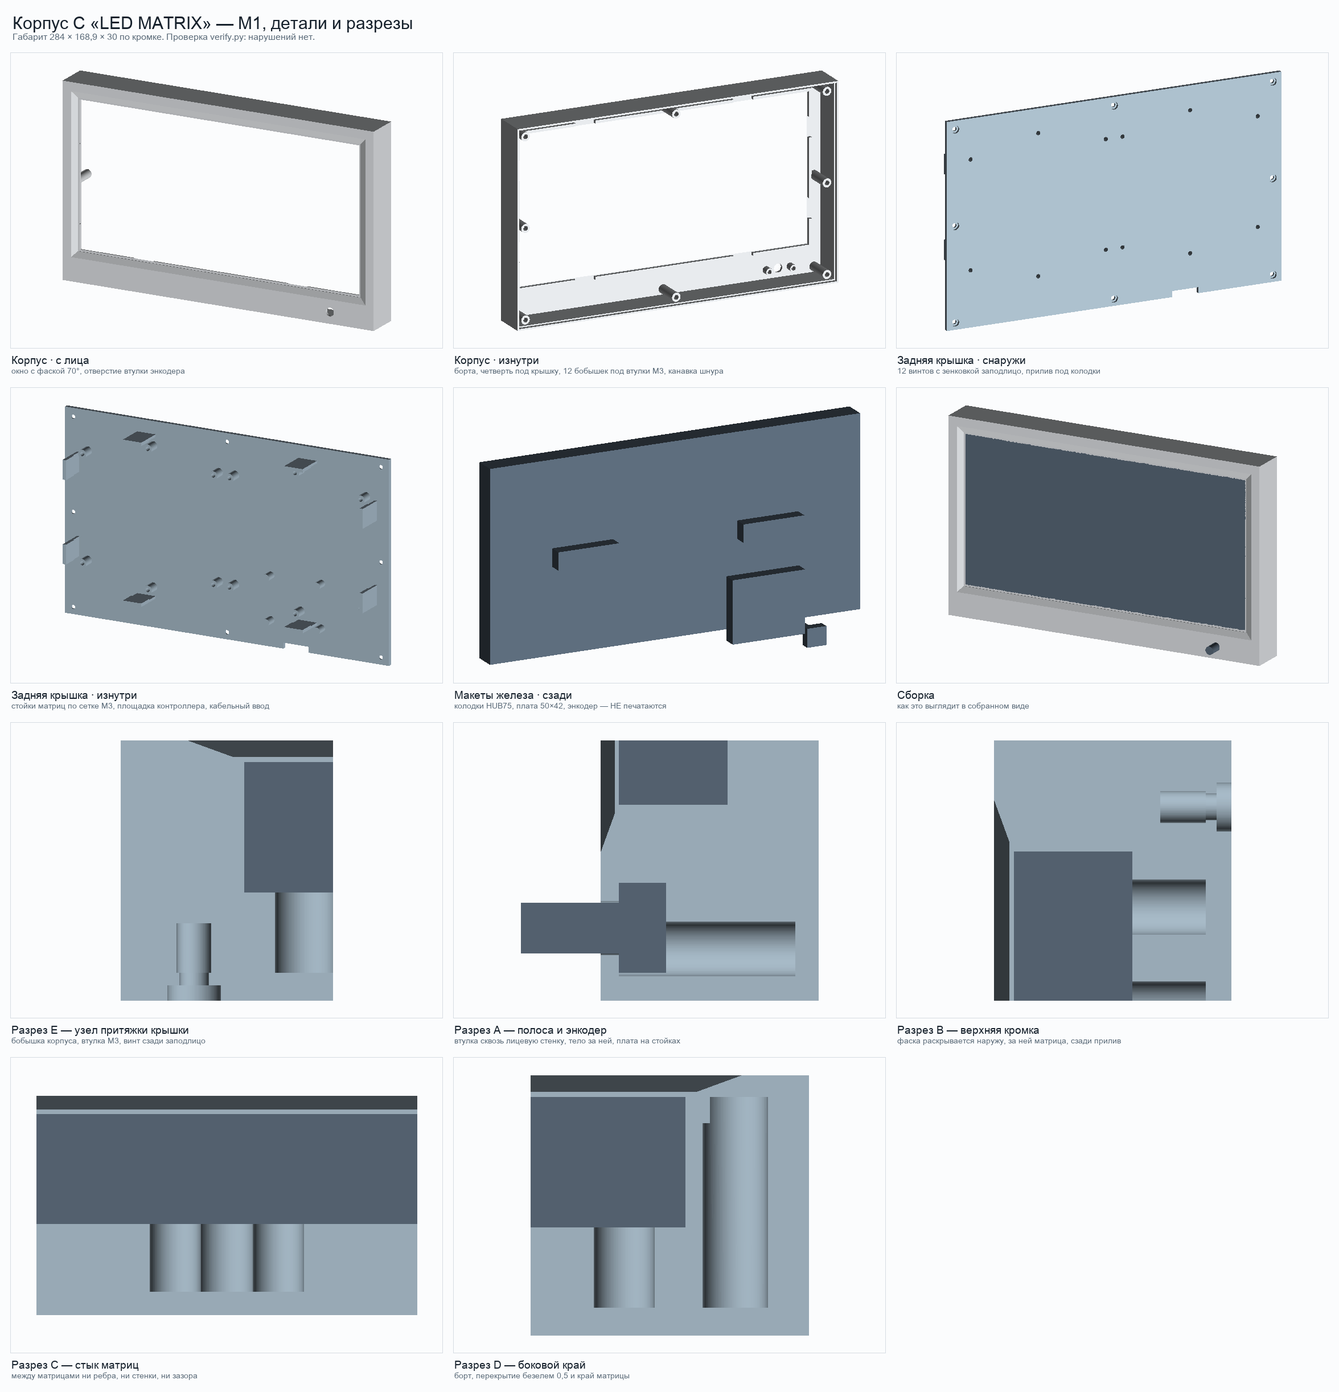
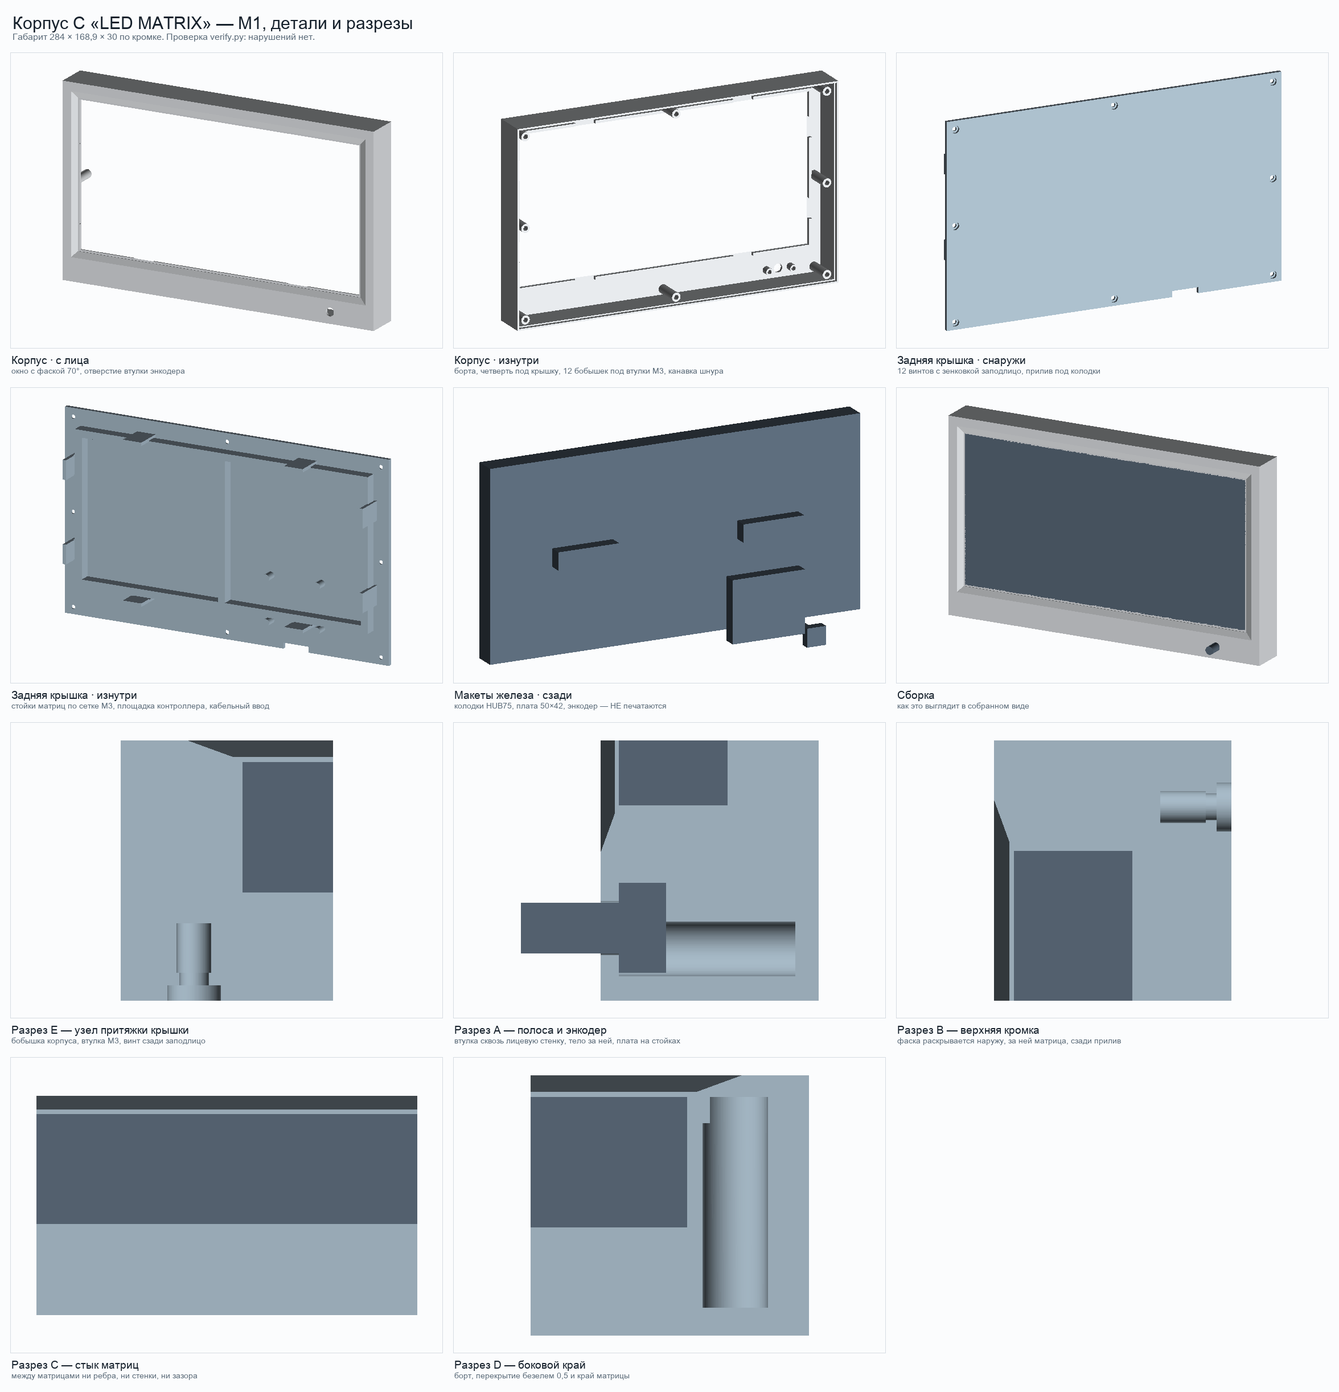
enclosure: the drawing is of an accessory — stop leaning on it
The whole factory sheet is the mounting frame, which ships as an accessory and
which this design does not use. Two things I had built on it are therefore
invalid: the six M3 points belong to the frame, not the panel, and the 127.8
outline is the frame's as well.

Panels are now held by pressure instead — the seat locates them, the tongues
push them together in plane, and ribs on the cover press them against the face
plate, with one rib along the seam. USE_FRAME_M3 stays as a flag and verify.py
fails outright if it is switched on while the frame is unconfirmed.

What the frame does tell us is kept: it closes over the panel and everything
soldered to it, so the panel fits within 15 mm. That is a ceiling worth having.

Also adds min_depth(), because "the frame is 15, so 20 is plenty" is half
right. Face plate, panel and cover come to 19.5; the controller behind the
panel puts the minimum at 28.5. verify.py prints both, so the trade-off is
visible rather than argued.

diff --git a/enclosure/cad/case_c_lib.py b/enclosure/cad/case_c_lib.py
@@ -43,21 +43,39 @@ class P:
 
 # --------------------------------------------------------------- матрица
 # Габарит литой рамки: два проставленных размера 127.800 на чертеже.
-PANEL_FRAME = P(127.8, DWG, "литая рамка, проставлено дважды")
+PANEL_FRAME = P(127.8, DWG, "литая МОНТАЖНАЯ рамка; мы её не ставим")
 # Кромка платы чертежом не размеряется. Паспорт даёт 128.
 PANEL_BOARD = P(128.0, MEAS, "кромка платы; чертёж её не размеряет")
 # Толщина: проставленного размера полной толщины на листе НЕТ.
 # Габарит геометрии бокового вида 14.9996, дистрибьютор 14.5.
-PANEL_T = P(15.0, MEAS, "справочно 14.5-15; полной толщины чертёж не размеряет")
+# Толщина. 15.0 — габарит монтажной рамки, и это ценно не само по себе:
+# рамка накрывает панель со всей её электроникой, значит панель СО ВСЕМ,
+# что на ней распаяно, в 15 мм укладывается. Голая панель тоньше, но
+# закладываться на 15 безопасно и достаточно: больше этого она не станет.
+PANEL_T = P(15.0, MEAS, "панель со всем навесным: укладывается в габарит рамки 15")
 # Ступень от лица до основной задней плоскости — проставлена и привязана.
 PANEL_STEP = P(12.0, DWG, "от лицевой кромки бокового вида до задней плоскости")
 PANEL_STEP2 = P(4.4775, DWG, "вторая ступень от лицевой кромки")
 
-# Шесть точек M3 (слой SCREW), координаты от центра матрицы.
+# Шесть точек M3 (слой SCREW), координаты от центра детали.
+#
+# ВАЖНО: они принадлежат ЛИТОЙ МОНТАЖНОЙ РАМКЕ, а не панели. Весь чертёж —
+# про эту рамку: `JXS-P2-128*128 bottom case`. Рамка идёт как принадлежность,
+# и ставить панель без неё можно. Значит на голой панели этих резьбовых точек
+# может не быть вовсе, и конструкция не имеет права на них опираться.
+#
+# Отсюда USE_FRAME_M3 = False: панели держатся ПРИЖИМОМ (гнездо в корпусе,
+# языки в плоскости, рёбра крышки по тыльной стороне), а не винтами.
+# Поставить True можно, только если обмер подтвердит и рамку, и точки.
+USE_FRAME_M3 = False
 M3_POINTS = [(0.0, 56.85), (-56.85, 44.0), (56.85, 44.0),
              (-56.85, -44.0), (56.85, -44.0), (0.0, -56.85)]
 M3_SRC = DWG
 M3_PILOT = P(2.5, DWG, "⌀ пилотного отверстия под M3")
+
+# Прижим панели к лицевой плите — рёбрами крышки по её тыльной стороне.
+PAD_W = P(6.0, SPEC, "ширина прижимного ребра")
+PAD_INSET = P(4.0, SPEC, "отступ ребра внутрь от кромки панели")
 
 # Периметр: 28 отверстий ⌀4.0, отступы от контура 127.8.
 PERIM_D = P(4.0, DWG)
@@ -76,8 +94,11 @@ VH4_H = P(7.0, MEAS, "высота колодки питания — не раз
 #
 # Значит за габарит выступает только ответная часть — розетка шлейфа,
 # надетая на вилку, — и ровно эту величину надо обмерить.
-CONN_PROUD = P(5.0, MEAS, "на сколько надетый шлейф HUB75 выступает ЗА габарит модуля")
-VH4_PROUD = P(3.0, MEAS, "то же для разъёма питания")
+# Выступ надетого шлейфа за 15 мм. По логике рамки — ноль: в её габарит
+# входит всё. Оставлено параметром, потому что рамка накрывает распаянные
+# колодки, а не надетые на них розетки, и это разные вещи. Обмер закроет.
+CONN_PROUD = P(0.0, MEAS, "выступ надетого шлейфа HUB75 за 15 мм; по рамке — ноль")
+VH4_PROUD = P(0.0, MEAS, "то же для разъёма питания")
 
 # ---------------------------------------------------------- активное поле
 PANELS_N = 2
@@ -209,6 +230,20 @@ def overlap_after_centering():
 RELIEF_BAND_Y = P(0.0, SPEC, "ось полосы прилива по Y = осевая матриц")
 RELIEF_BAND_H = P(56.0, SPEC, "высота полосы; сузится после обмера")
 RELIEF_MARGIN = P(1.5, SPEC, "запас над разъёмом")
+
+
+def min_depth(with_controller=True):
+    """Наименьшая глубина корпуса для данной компоновки.
+
+    Панель глубину НЕ определяет: монтажная рамка 15 мм доказывает, что вся
+    электроника панели в эти 15 укладывается, и на неё уходит 2.5 + 15 + 2.0
+    = 19.5. Определяет глубину плата контроллера, стоящая за панелью.
+    """
+    base = float(WALL_FRONT) + float(PANEL_T) + float(WALL_BACK)
+    if not with_controller:
+        return base + max(float(CONN_PROUD), float(VH4_PROUD)) + 0.5
+    return base + max(float(CTRL_T),
+                      max(float(CONN_PROUD), float(VH4_PROUD)) + 0.5)
 
 
 def relief_depth():

diff --git a/enclosure/cad/back_cover.step.py b/enclosure/cad/back_cover.step.py
@@ -26,7 +26,8 @@ from build123d import Box, Cylinder, Pos, export_stl
 
 from case_c_lib import (CASE_H, CASE_W, CLAMP_PRELOAD, CLAMP_T, CLAMP_TOOTH,
                         CLAMP_W, COVER_GAP, COVER_HEAD_D, COVER_HEAD_H,
-                        PANEL_BOARD, clamp_positions, seat_bounds,
+                        PANEL_BOARD, PAD_INSET, PAD_W, USE_FRAME_M3,
+                        clamp_positions, seat_bounds,
                         COVER_LIP, COVER_SCREW_D, CTRL_H, CTRL_T, CTRL_W,
                         DEPTH, FIELD_CY, INSERT_M25_D, INSERT_M25_L, M3_POINTS,
                         PANEL_FRAME, PANEL_T, RELIEF_BAND_H, RELIEF_BAND_Y,
@@ -112,14 +113,34 @@ def build():
         part += relief_out
         part -= relief_in
 
-    # стойки матриц: от крышки вперёд, до задней плоскости матрицы
+    # Прижим панелей. Винты по сетке M3 не используются: сетка принадлежит
+    # монтажной рамке, которую мы не ставим, и на голой панели её может не
+    # быть. Панели прижимаются рёбрами крышки к лицевой плите — по периметру
+    # каждой панели и вдоль стыка, где прижим особенно важен.
     L = Z_LIP - Z_PANEL_BACK
-    for cx in PANEL_CX:
-        for mx, my in M3_POINTS:
-            part += Pos(cx + mx, my, Z_PANEL_BACK + L / 2) * Cylinder(BOSS_D / 2, L)
-    for cx in PANEL_CX:
-        for mx, my in M3_POINTS:
-            part -= Pos(cx + mx, my, D / 2) * Cylinder(BOSS_HOLE / 2, 3 * D)
+    pw, ins = float(PAD_W), float(PAD_INSET)
+    x0, x1, y0, y1 = seat_bounds()
+    ring_x0, ring_x1 = x0 + ins, x1 - ins
+    ring_y0, ring_y1 = y0 + ins, y1 - ins
+    frame = (Pos((ring_x0 + ring_x1) / 2, (ring_y0 + ring_y1) / 2,
+                 Z_PANEL_BACK + L / 2)
+             * Box(ring_x1 - ring_x0 + pw, ring_y1 - ring_y0 + pw, L)
+             - Pos((ring_x0 + ring_x1) / 2, (ring_y0 + ring_y1) / 2,
+                   Z_PANEL_BACK + L / 2)
+             * Box(ring_x1 - ring_x0 - pw, ring_y1 - ring_y0 - pw, L))
+    part += frame
+    # ребро по стыку: держит обе панели вровень именно там, где это видно
+    part += Pos(0.0, (ring_y0 + ring_y1) / 2, Z_PANEL_BACK + L / 2) * Box(
+        pw, ring_y1 - ring_y0, L)
+
+    if USE_FRAME_M3:
+        for cx in PANEL_CX:
+            for mx, my in M3_POINTS:
+                part += Pos(cx + mx, my, Z_PANEL_BACK + L / 2) * Cylinder(
+                    BOSS_D / 2, L)
+        for cx in PANEL_CX:
+            for mx, my in M3_POINTS:
+                part -= Pos(cx + mx, my, D / 2) * Cylinder(BOSS_HOLE / 2, 3 * D)
 
     # контроллер
     lc = Z_LIP - (Z_PANEL_BACK + 1.0)
@@ -153,7 +174,8 @@ if __name__ == "__main__":
     bb = part.bounding_box()
     print(f"габарит: {bb.size.X:.2f} x {bb.size.Y:.2f} x {bb.size.Z:.2f}")
     print(f"объём: {part.volume / 1000:.1f} см3, тел: {len(part.solids())}")
-    print(f"стоек матриц: {2 * len(M3_POINTS)}, точек притяжки: {len(cover_points())}")
+    print(f"прижим панелей: {'винты M3' if USE_FRAME_M3 else 'рёбра'}, "
+          f"точек притяжки крышки: {len(cover_points())}")
     out = os.path.join(os.path.dirname(os.path.abspath(__file__)), "out")
     os.makedirs(out, exist_ok=True)
     export_stl(part, os.path.join(out, "back_cover.stl"))

diff --git a/enclosure/cad/verify.py b/enclosure/cad/verify.py
@@ -109,6 +109,18 @@ def main():
         if not ok:
             fail(f"{nm} ({need:.1f}) не входит: доступно {have:.2f}")
 
+    print("\n=== 3.1 что определяет глубину ===")
+    need_with = L.min_depth(True)
+    need_without = L.min_depth(False)
+    print(f"  на панель уходит: {float(L.WALL_FRONT):.1f} + {float(L.PANEL_T):.1f}"
+          f" + {float(L.WALL_BACK):.1f} = "
+          f"{float(L.WALL_FRONT) + float(L.PANEL_T) + float(L.WALL_BACK):.1f}")
+    print(f"  минимум с контроллером внутри: {need_with:.1f}")
+    print(f"  минимум без контроллера:       {need_without:.1f}")
+    print(f"  назначено: {float(L.DEPTH):.1f}")
+    if float(L.DEPTH) < need_with:
+        fail(f"глубина {float(L.DEPTH):.1f} меньше необходимой {need_with:.1f}")
+
     print("\n=== 4. соединение корпуса и крышки ===")
     body, cover = parts["case_body"], parts["back_cover"]
     pts = L.cover_points()
@@ -159,7 +171,18 @@ def main():
         if grip <= 0:
             fail(f"язык не достаёт до торца при {cand:.1f}")
 
-    print("\n=== 6. свободная полоса и ручка ===")
+    print("\n=== 6. на что опирается конструкция ===")
+    if L.USE_FRAME_M3:
+        print("  панели держатся винтами по сетке M3 монтажной рамки")
+        fail("конструкция опирается на сетку M3, которая принадлежит рамке; "
+             "рамка — принадлежность, на голой панели точек может не быть")
+    else:
+        print("  панели держатся прижимом: гнездо, языки в плоскости, "
+              "рёбра крышки по тыльной стороне")
+        print("  сетка M3 монтажной рамки не используется — и правильно: "
+              "рамку мы не ставим")
+
+    print("\n=== 7. свободная полоса и ручка ===")
     bevel_edge = -(float(L.FIELD_H) / 2 + float(L.BEVEL_RUN))   # нижний край фаски
     bottom = -(float(L.FIELD_H) / 2 + float(L.STRIP_H))          # кромка корпуса
     free = bevel_edge - bottom
@@ -174,7 +197,7 @@ def main():
     if top_gap < 0 or bot_gap < 0:
         fail("ручка энкодера не помещается в свободную полосу")
 
-    print("\n=== 7. печать ===")
+    print("\n=== 8. печать ===")
     for n, p in parts.items():
         bb = p.bounding_box()
         ok, how = L.fits_plate(bb.size.X, bb.size.Y)
@@ -184,7 +207,7 @@ def main():
             # это ожидаемый результат, а не нарушение.
             print(f"     ожидаемо на M1: членение выполняется на M2")
 
-    print("\n=== 8. тела и сетка ===")
+    print("\n=== 9. тела и сетка ===")
     out = os.path.join(HERE, "out")
     os.makedirs(out, exist_ok=True)
     import trimesh
@@ -200,7 +223,7 @@ def main():
         if not m.is_watertight or broken:
             fail(f"{n} даёт негерметичную сетку")
 
-    print("\n=== 9. на обмере ===")
+    print("\n=== 10. на обмере ===")
     for nm, v, note in L.measured_params():
         print(f"  {nm:14s} = {v:8.3f}   {note}")
 

diff --git a/enclosure/cad/mockups.step.py b/enclosure/cad/mockups.step.py
@@ -15,19 +15,23 @@ sys.path.insert(0, os.path.dirname(os.path.abspath(__file__)))
 from build123d import Box, Compound, Cylinder, Pos, export_stl
 
 from case_c_lib import (CONN_H, CTRL_H, CTRL_T, CTRL_W, ENC_BODY_H, ENC_BODY_T,
+                        PANEL_BOARD,
                         ENC_BODY_W, ENC_BUSH_D, ENC_X, ENC_Y, PANEL_FRAME,
                         PANEL_T, WALL_FRONT)
 
 TF, PT = float(WALL_FRONT), float(PANEL_T)
 PF = float(PANEL_FRAME)
+PB = float(PANEL_BOARD)
 CTRL_CX, CTRL_CY = 60.0, -50.0          # согласовано с back_shell
 Z_PANEL_BACK = TF + PT
 
 
 def build():
     items = []
+    # Панель БЕЗ монтажной рамки: наружный размер берём по кромке платы,
+    # рамка — принадлежность, и мы её не ставим.
     for sx in (-1, 1):
-        m = Pos(sx * PF / 2, 0, TF + PT / 2) * Box(PF, PF, PT)
+        m = Pos(sx * PB / 2, 0, TF + PT / 2) * Box(PB, PB, PT)
         m.label = f"panel_{'L' if sx < 0 else 'R'}"
         items.append(m)
 
@@ -35,7 +39,7 @@ def build():
     # поэтому положение здесь ВЫДУМАНО: по центру каждой матрицы, на осевой.
     # Оно влияет только на картинку; глубину корпуса задаёт CONN_STACK, а
     # ширину прилива — то, что положение неизвестно (полоса во всю ширину).
-    for x in (-PF / 2, PF / 2):
+    for x in (-PB / 2, PB / 2):
         c = Pos(x, 0, Z_PANEL_BACK + float(CONN_H) / 2) * Box(42.0, 12.0, float(CONN_H))
         c.label = "hub75"
         items.append(c)

diff --git a/enclosure/cad/README.md b/enclosure/cad/README.md
@@ -58,6 +58,33 @@ of plate, and deeper down the window is already narrow, leaving about 12 mm betw
 edge and the wall. The bosses grow from the back of the plate into exactly that band —
 2.3 mm clear of the window and 2.3 mm clear of the wall, which `verify.py` checks.
 
+## The drawing is of an accessory, not of the panel
+
+Worth saying plainly, because it invalidates two things I had leaned on. The whole factory
+sheet is the **mounting frame** — `JXS-P2-128*128 bottom case` — which ships as an
+accessory. The panel can be installed without it, and this design does exactly that.
+
+So: the six M3 points belong to *the frame*, not to the panel. On a bare panel they may
+not exist at all. `USE_FRAME_M3` is therefore `False`, and the panels are held by pressure
+instead — the seat locates them, the tongues push them together in plane, and ribs on the
+cover press them against the face plate, including one rib along the seam itself.
+`verify.py` fails outright if that flag is turned back on without the frame being confirmed.
+
+The 127.8 outline is the frame's too. What the frame *does* tell us is worth keeping: it
+closes over the panel and all its electronics, so **the panel with everything soldered to
+it fits within 15 mm**. That is a ceiling, and a useful one.
+
+## What sets the depth — and it is not the panel
+
+Face plate, panel and cover come to 2.5 + 15 + 2.0 = **19.5 mm**. So a 20 mm case would
+be enough — for the panel. The controller is what sets the depth: a 50 × 42 board about
+9 mm tall behind the panel puts the minimum at **28.5 mm**, and 30 is that with a little
+air. `verify.py` prints all three numbers on every run.
+
+Twenty is reachable, but only by moving the controller out of the panel — into a separate
+box on a cable, or a stand. That is a decision about the product, not about the shell, so
+the model keeps `DEPTH` as one parameter and will rebuild at any value.
+
 ## The back is flat — no relief
 
 An earlier version put a raised band across the back wall for the connectors. It came out
